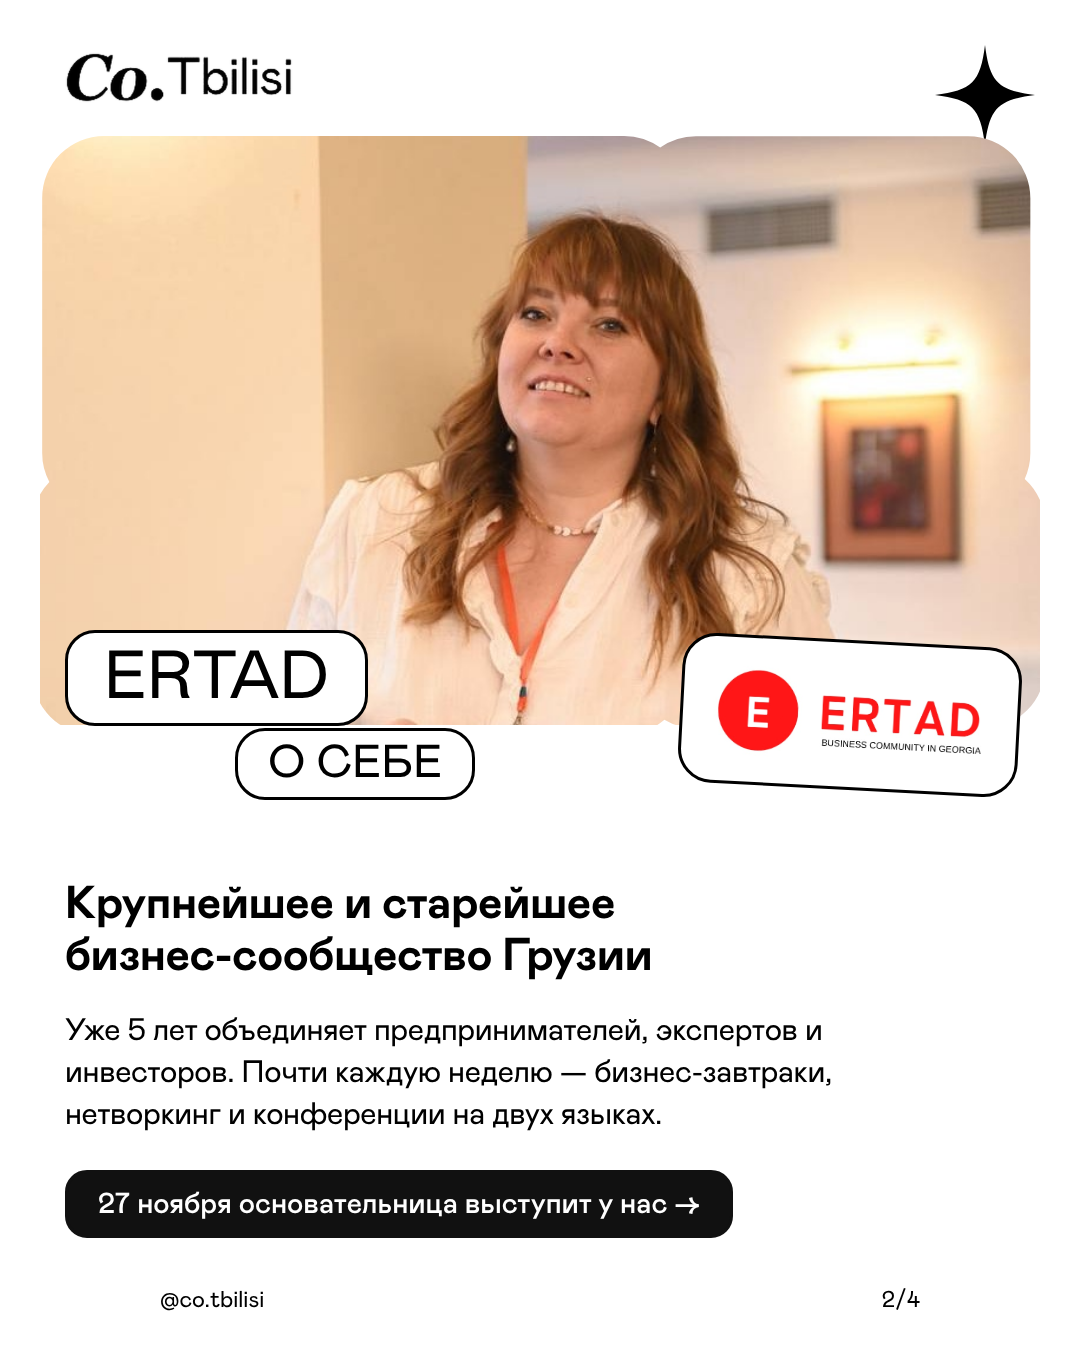
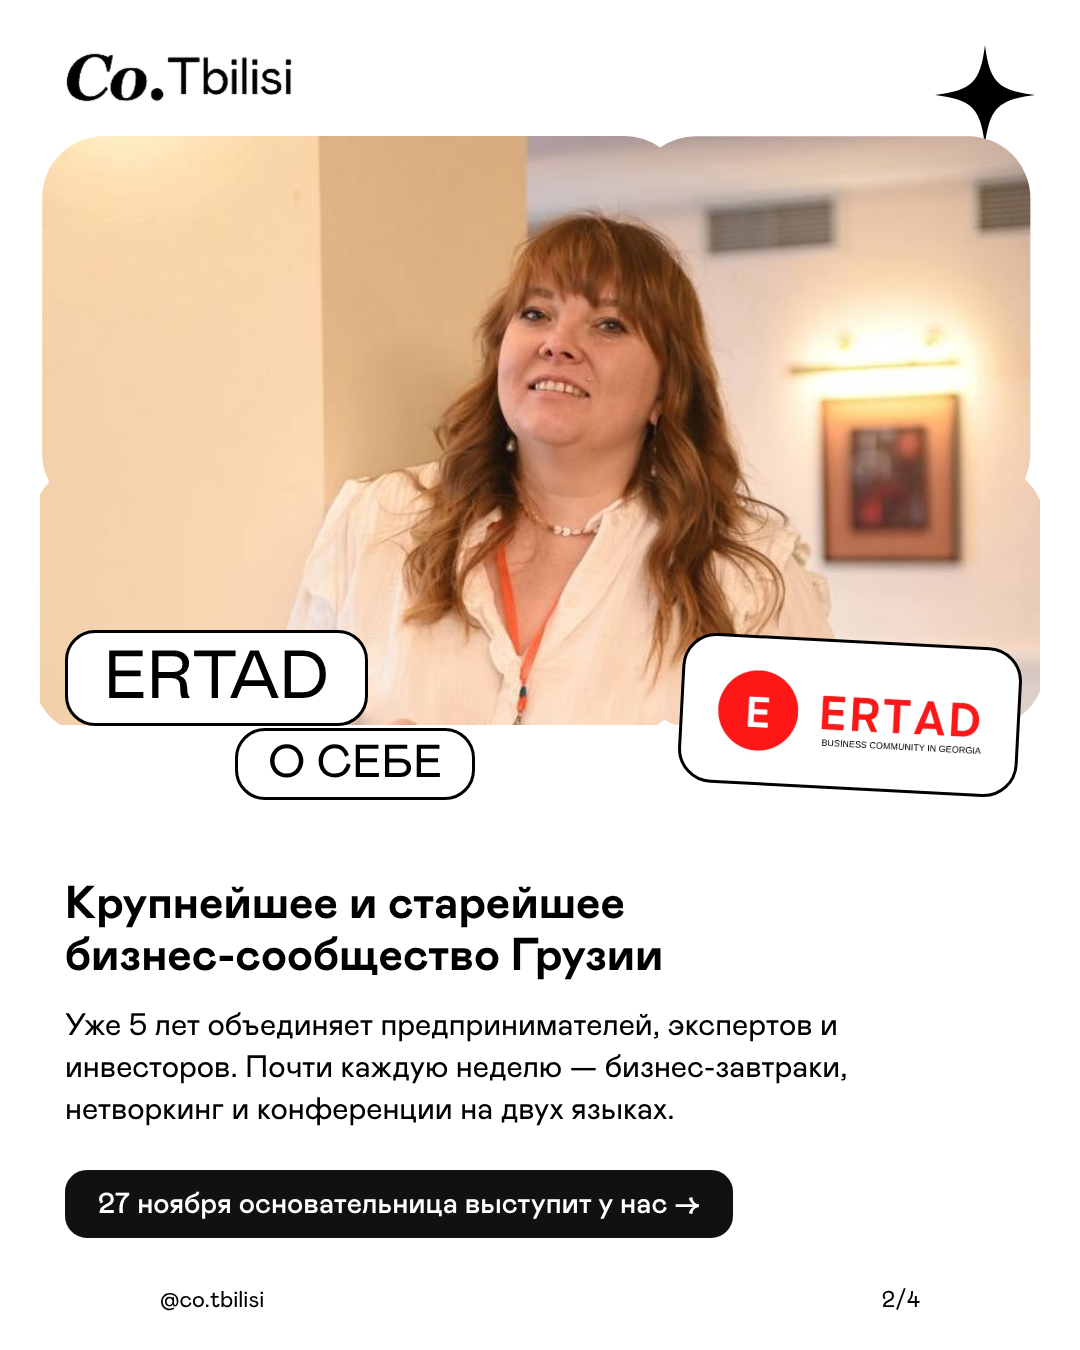
Add Nikolay Levshits carousel, flow slide 2 text
Claude-Session: https://claude.ai/code/session_01EUhV7vPX1t3vpviokc9JaB

Changed region(s): [[0.0611, 0.6533, 0.7944, 0.84]]

diff --git a/carousel/carousel.js b/carousel/carousel.js
@@ -116,8 +116,8 @@ function slide2(L, v, rnd) {         // о сообществе
   ${logo(ink, 'left:65px;top:52px')}
   ${photoBlob(b64(L.photos.community), [40, 135, 1000, 590], { split: v.comm.split, r: 62, pos: L.community_pos || 'xMidYMid' }, rnd)}
   ${pills}${lg}
-  <div class="h" style="left:65px;right:150px;top:880px;font-size:46px;font-weight:700;line-height:1.12">${esc(L.community_title).replace(/(\S+-\S+)/g, '<span style="white-space:nowrap">$1</span>')}</div>
-  <div class="h" style="left:65px;right:110px;top:${L.community_title.length > 42 ? 1010 : 960}px;font-size:31px;line-height:1.36">${esc(L.community_text)}</div>
+  <div class="abs" style="left:65px;right:110px;top:${L.community_title.length > 60 ? 850 : 880}px"><div style="margin-right:40px;font-size:46px;font-weight:700;line-height:1.12">${esc(L.community_title).replace(/(^|\s)(о|в|и|на|с|к|у|по|для|из|от|об) /gi, '$1$2\u00a0').replace(/(\S+-\S+)/g, '<span style="white-space:nowrap">$1</span>')}</div>
+  <div style="margin-top:22px;font-size:31px;line-height:1.36">${esc(L.community_text)}</div></div>
   ${pill(L.cta || '27 ноября их основатель выступит у нас →', '', `left:65px;top:1170px;height:68px;padding:0 30px;font-size:29px;font-weight:500;background:${dark ? '#fff' : '#111'};color:${dark ? '#000' : '#fff'};border-color:${dark ? '#fff' : '#111'};border-radius:22px`)}
   ${footer(2, ink)}</body>`;
 }
